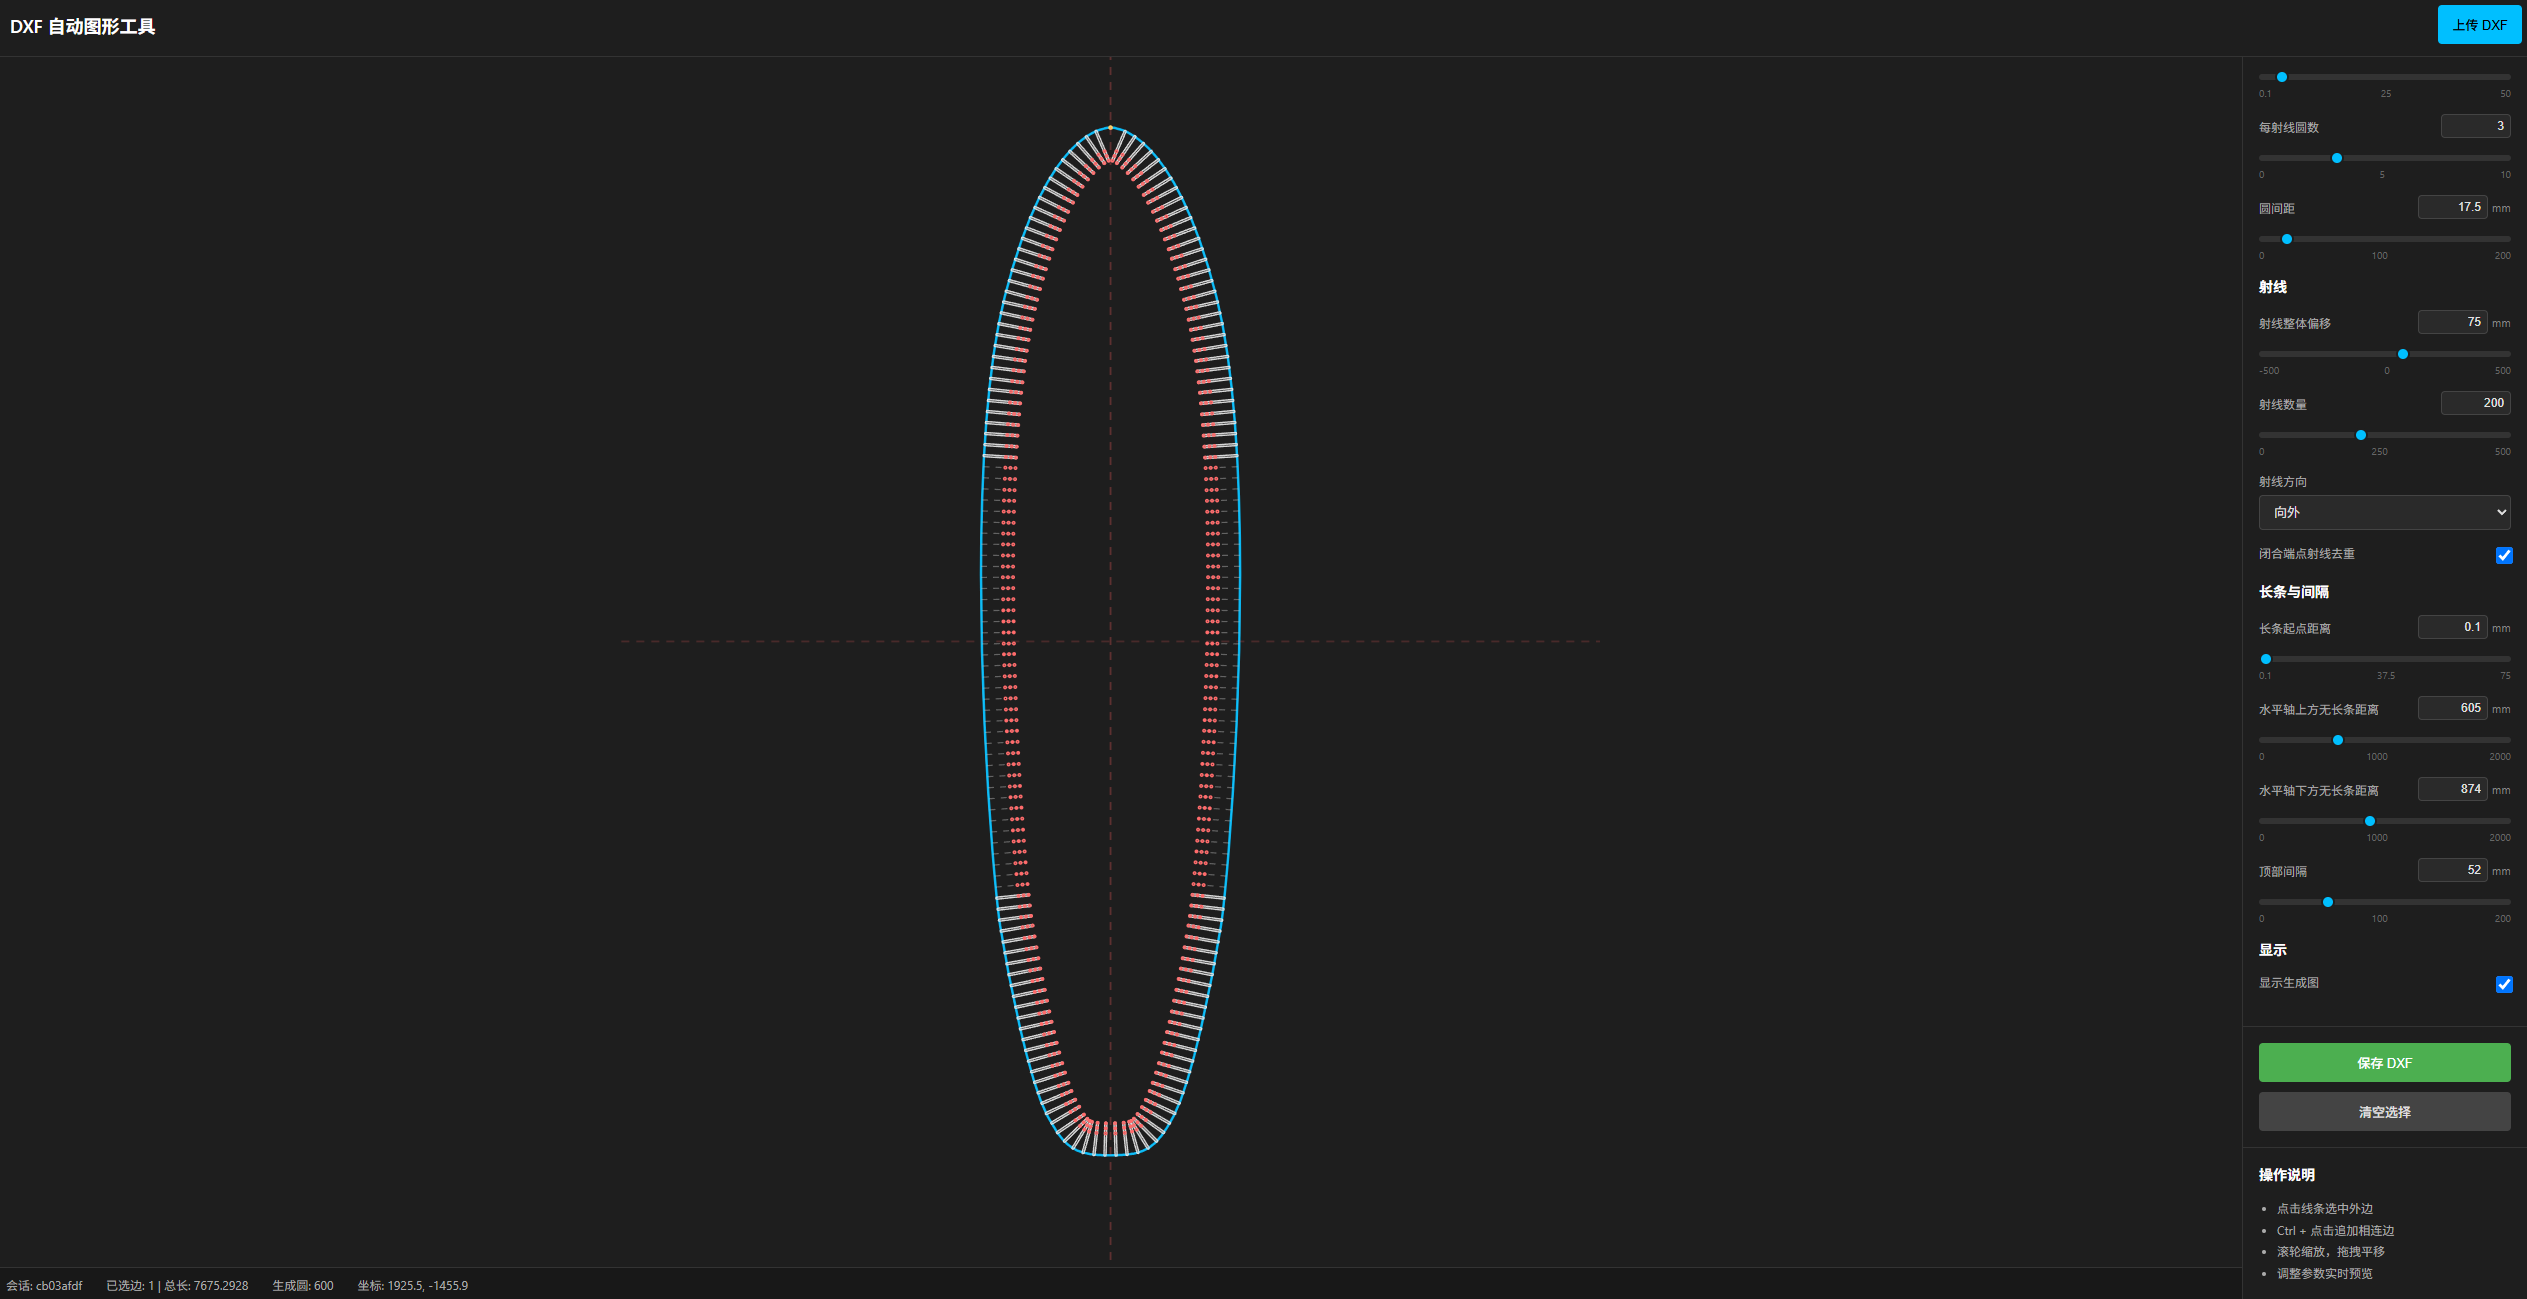
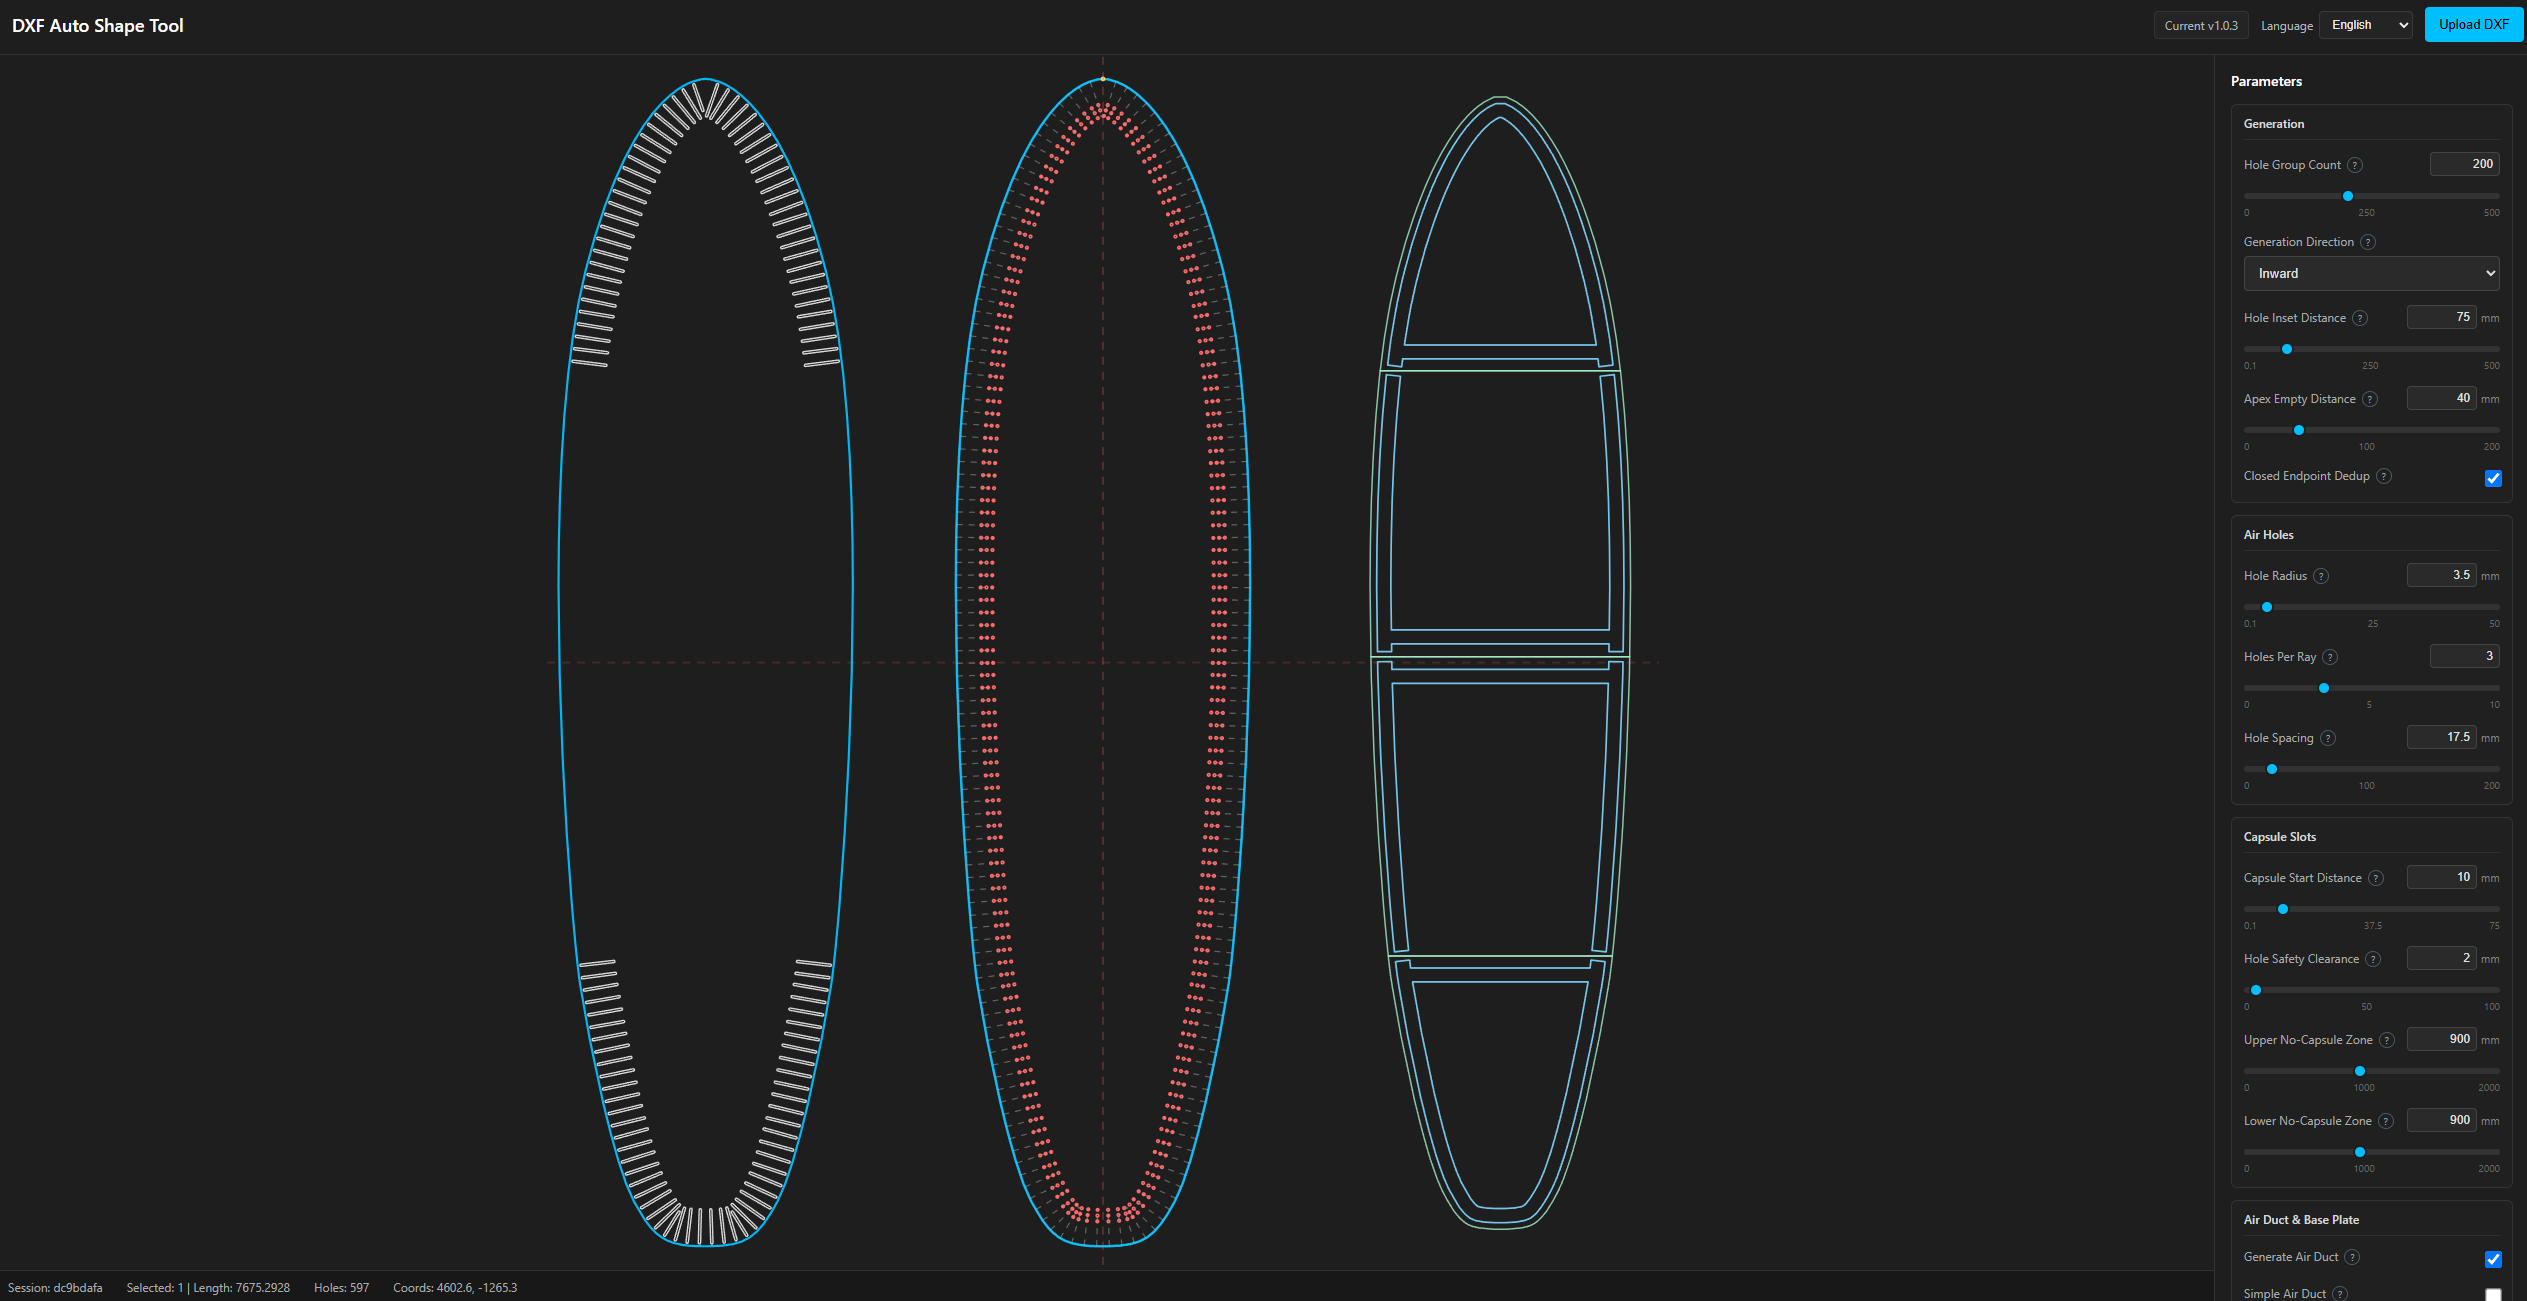
Update README preview and demo link

diff --git a/README.md b/README.md
@@ -10,6 +10,8 @@ The intended workflow is simple: import a surfboard outline DXF, select the edge
 
 Rufa website: [http://rufajx.com/](http://rufajx.com/)
 
+Online demo: [http://server.rosebeg.com:8000/](http://server.rosebeg.com:8000/)
+
 ## Key Features
 
 - Upload and preview surfboard outline DXF files in the browser.

diff --git a/README.zh-CN.md b/README.zh-CN.md
@@ -10,6 +10,8 @@
 
 Rufa 公司网址：[http://rufajx.com/](http://rufajx.com/)
 
+在线 Demo：[http://server.rosebeg.com:8000/](http://server.rosebeg.com:8000/)
+
 ## 主要能力
 
 - 上传冲浪板外形 DXF，并在浏览器中预览。
